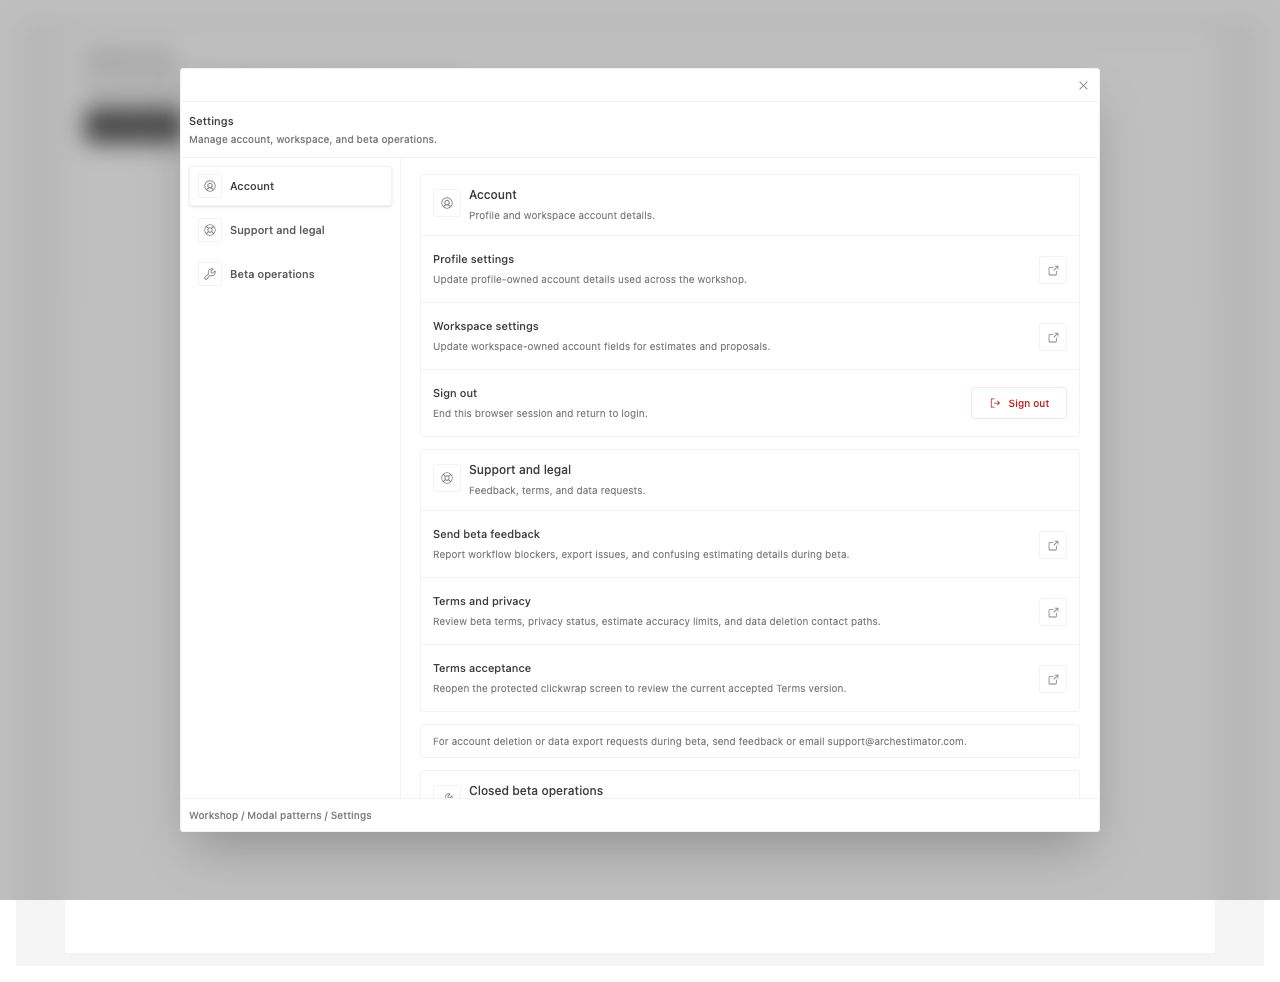
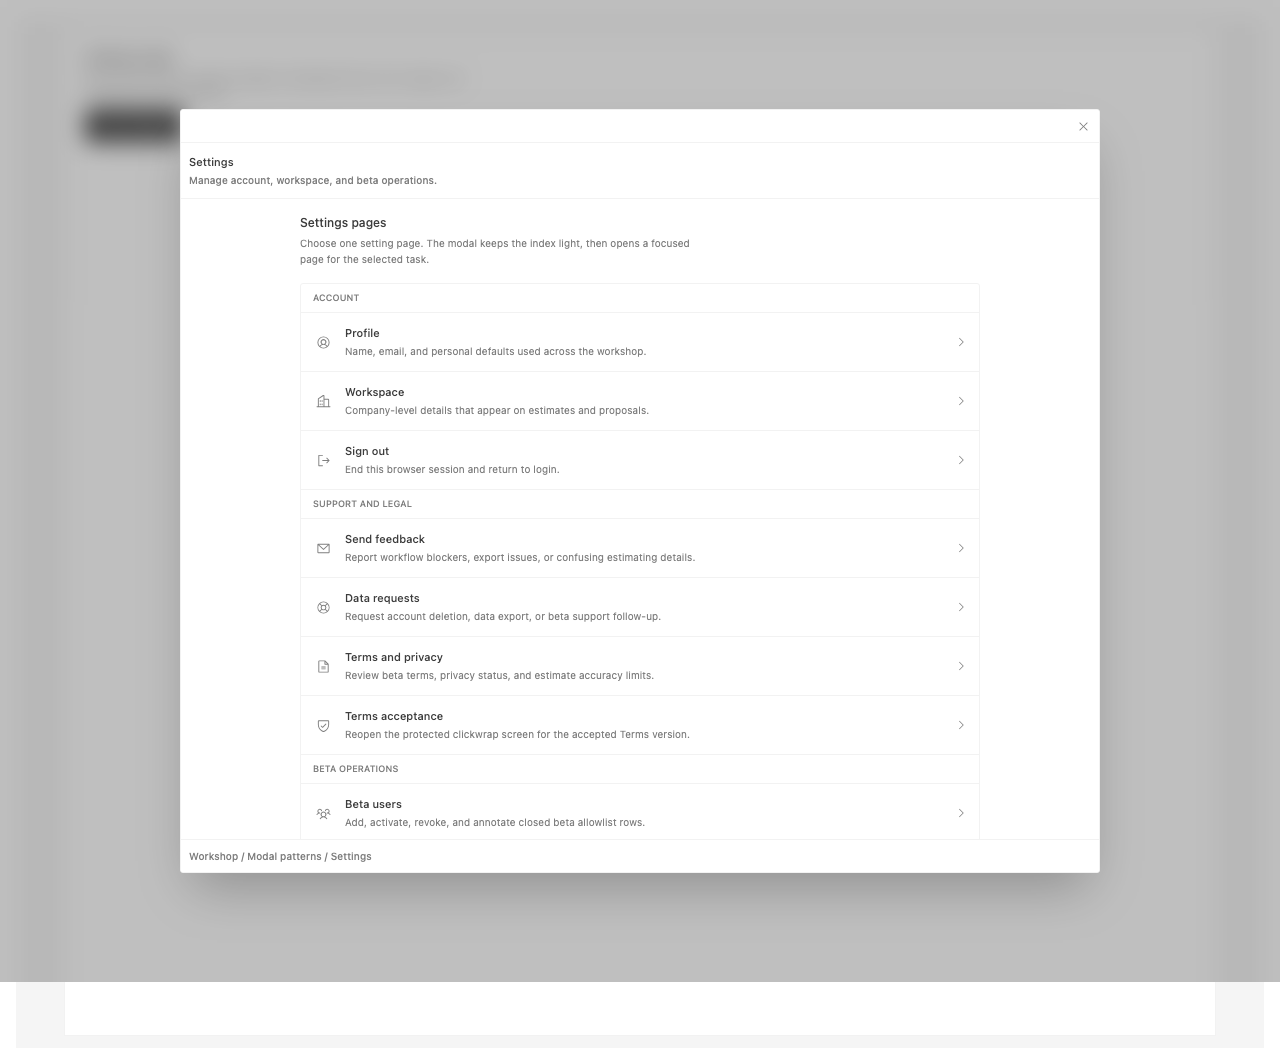
Refresh settings modal audit evidence
Record the settled settings-modal audit artifacts and tighten the corpus tripwire check so the pushed branch matches the live worktree after the final audit output landed.

Constraint: User requested committing and pushing every worktree change, including late-arriving generated evidence.

Rejected: Force-pushing an amended main commit | remote main had already accepted the prior checkpoint.

Confidence: high

Scope-risk: narrow

Directive: Treat these audit files as generated evidence; refresh them together with settings-modal story changes.

Tested: git diff --cached --check

Not-tested: Typecheck, full validate, browser proof, Storybook proof

diff --git a/public/storybook-audits/settings-modal-audit-notes.md b/public/storybook-audits/settings-modal-audit-notes.md
@@ -1,40 +1,29 @@
-# Settings Modal Audit
+# Settings Modal Audit Notes
+
+Captured: 2026-06-20T01:48:39.027Z
 
 ## Scope
 
-- Surface: Storybook Settings modal in `Domain/Workshop/ModalPatterns`.
-- Evidence:
-  - `settings-modal-audit-desktop.png`
-  - `settings-modal-audit-mobile.png`
-  - `settings-modal-audit-capture.json`
-- Design source: repo `DESIGN.md` app UI tokens and current Storybook modal pattern.
+Storybook Settings modal after the hub/detail redesign. Desktop capture shows the settings index. Mobile capture shows one drill-in detail page.
 
-## Steps
+## Evidence
 
-1. Desktop Settings modal: Healthy with follow-up polish.
-2. Narrow Settings modal: Mostly healthy, with responsive density risk.
+- Desktop screenshot: public/storybook-audits/settings-modal-audit-desktop.png
+- Mobile screenshot: public/storybook-audits/settings-modal-audit-mobile.png
+- Capture metrics: public/storybook-audits/settings-modal-audit-capture.json
 
-## Strengths
+## Findings
 
-- The shell is clear: close strip, title header, content body, and lower-left location footer read as separate zones.
-- The white surface is simple and consistent with the repo's product UI direction.
-- Settings rows follow a predictable title, helper text, and trailing action pattern.
+- Strength: Settings now uses progressive disclosure instead of one long all-settings page.
+- Strength: Settings rows are visually simpler: plain icon, title, helper text, caret.
+- P2: Decide final route ownership: modal-only detail, full route pages, or modal hub plus route handoff.
+- P2: Confirm focus order in the real app once route pages are final.
+- Limit: Storybook proves visible hierarchy and core interactions, not complete screen-reader behavior.
 
-## UX Risks
+## Checks
 
-- Initial focus currently lands on the close button. That is safe, but it may over-prioritize leaving the modal over reviewing settings.
-- Category navigation looks like stable settings IA, but the active state is static rather than clearly tied to selected or scrolled section state.
-- Mobile category navigation fits the current three categories, but it has limited capacity for longer labels or additional settings groups.
-
-## Accessibility Risks
-
-- Screenshots confirm labels and visible structure, but not the full keyboard trap, tab sequence, or screen-reader announcement order.
-- The hash-link category nav should be checked for keyboard and screen-reader clarity if it remains anchor-based.
-- Long labels, zoom, and contrast for every interaction state still need targeted checks.
-
-## Recommendations
-
-1. Decide whether initial focus should remain on Close settings or move to the modal title/container/first category.
-2. Make the category navigation state explicit when a user selects or scrolls to a section.
-3. Define mobile overflow behavior before adding more settings categories.
-4. Run a focused accessibility pass for Tab order, Escape behavior, screen-reader labels, zoom, and contrast.
+- Desktop index rendered: true
+- Mobile Workspace detail rendered: true
+- Escape closed the modal: true
+- Audit story images loaded: true
+- Console/page errors: 0

diff --git a/.ai/00_corpus/archestimator-app-bible.md b/.ai/00_corpus/archestimator-app-bible.md
@@ -387,11 +387,12 @@ rg -o '`[A-Za-z0-9_./\[\]-]+`' .ai/00_corpus/archestimator-app-bible.md \
   | while read -r p; do [ -e "${p%%:*}" ] || echo "DEAD ANCHOR: $p"; done
 ```
 
-**Staleness tripwires.** The strings `maplibre`, `openfreemap`, `tiles.openfreemap.org`, `location-map-config`, and `NEXT_PUBLIC_PROJECT_LOCATION_MAP_ENABLED` must not appear in any *claim* in this corpus (they describe the removed tile-map stack), and the verified-stamp must never read `2026-06-19` or older. This very line is the only intentional occurrence of those tokens; the check below excludes it:
+**Staleness tripwires.** The strings `maplibre`, `openfreemap`, `tiles.openfreemap.org`, `location-map-config`, and `NEXT_PUBLIC_PROJECT_LOCATION_MAP_ENABLED` describe the removed tile-map stack and must not appear in any *claim* (they may appear only inside this protocol), and the verified-stamp must never read `2026-06-19` or older. The check scans only the claim region — everything above this protocol — so it ignores the intentional mentions here:
 
 ```bash
-rg -ni 'maplibre|openfreemap|location-map-config|NEXT_PUBLIC_PROJECT_LOCATION_MAP_ENABLED|Last verified: 2026-06-19' \
-  .ai/00_corpus/archestimator-app-bible.md | rg -v 'Staleness tripwires'   # must print nothing
+sed '/^## Corpus Maintenance Protocol/,$d' .ai/00_corpus/archestimator-app-bible.md \
+  | rg -ni 'maplibre|openfreemap|location-map-config|NEXT_PUBLIC_PROJECT_LOCATION_MAP_ENABLED|Last verified: 2026-06-19'
+# must print nothing
 ```
 
 **Sign-off rule.** A revision is "done" only when every changed claim is confirmable by opening a single cited source file, the anchor sweep is clean, and the tripwire check above prints nothing.
